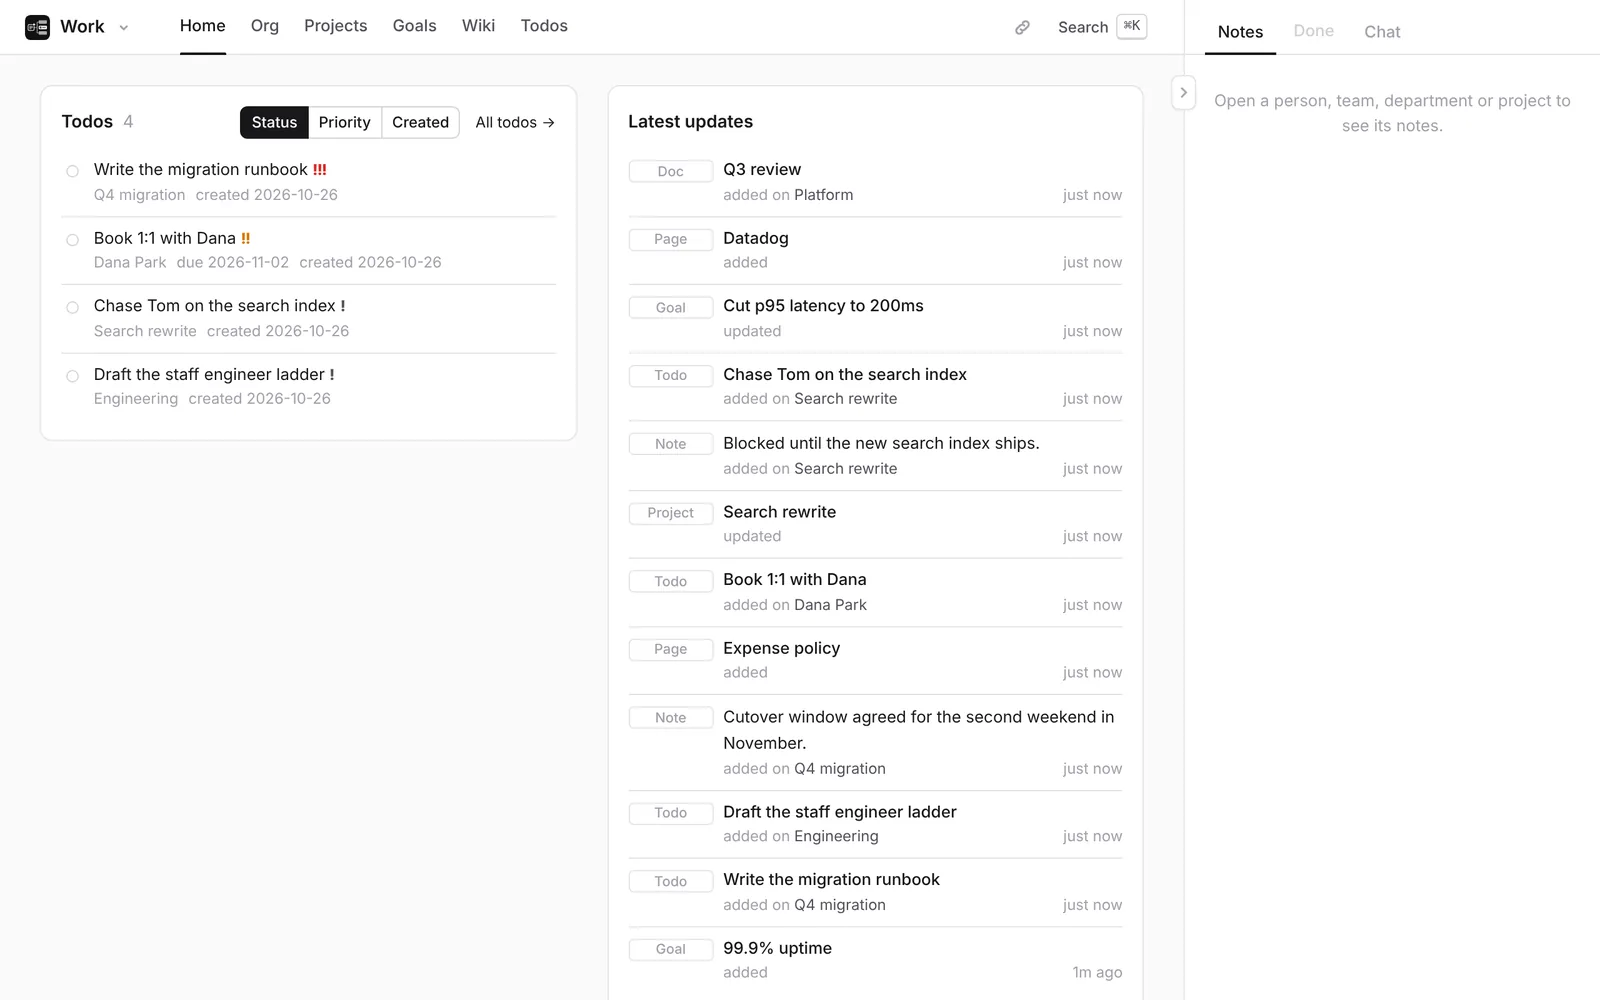
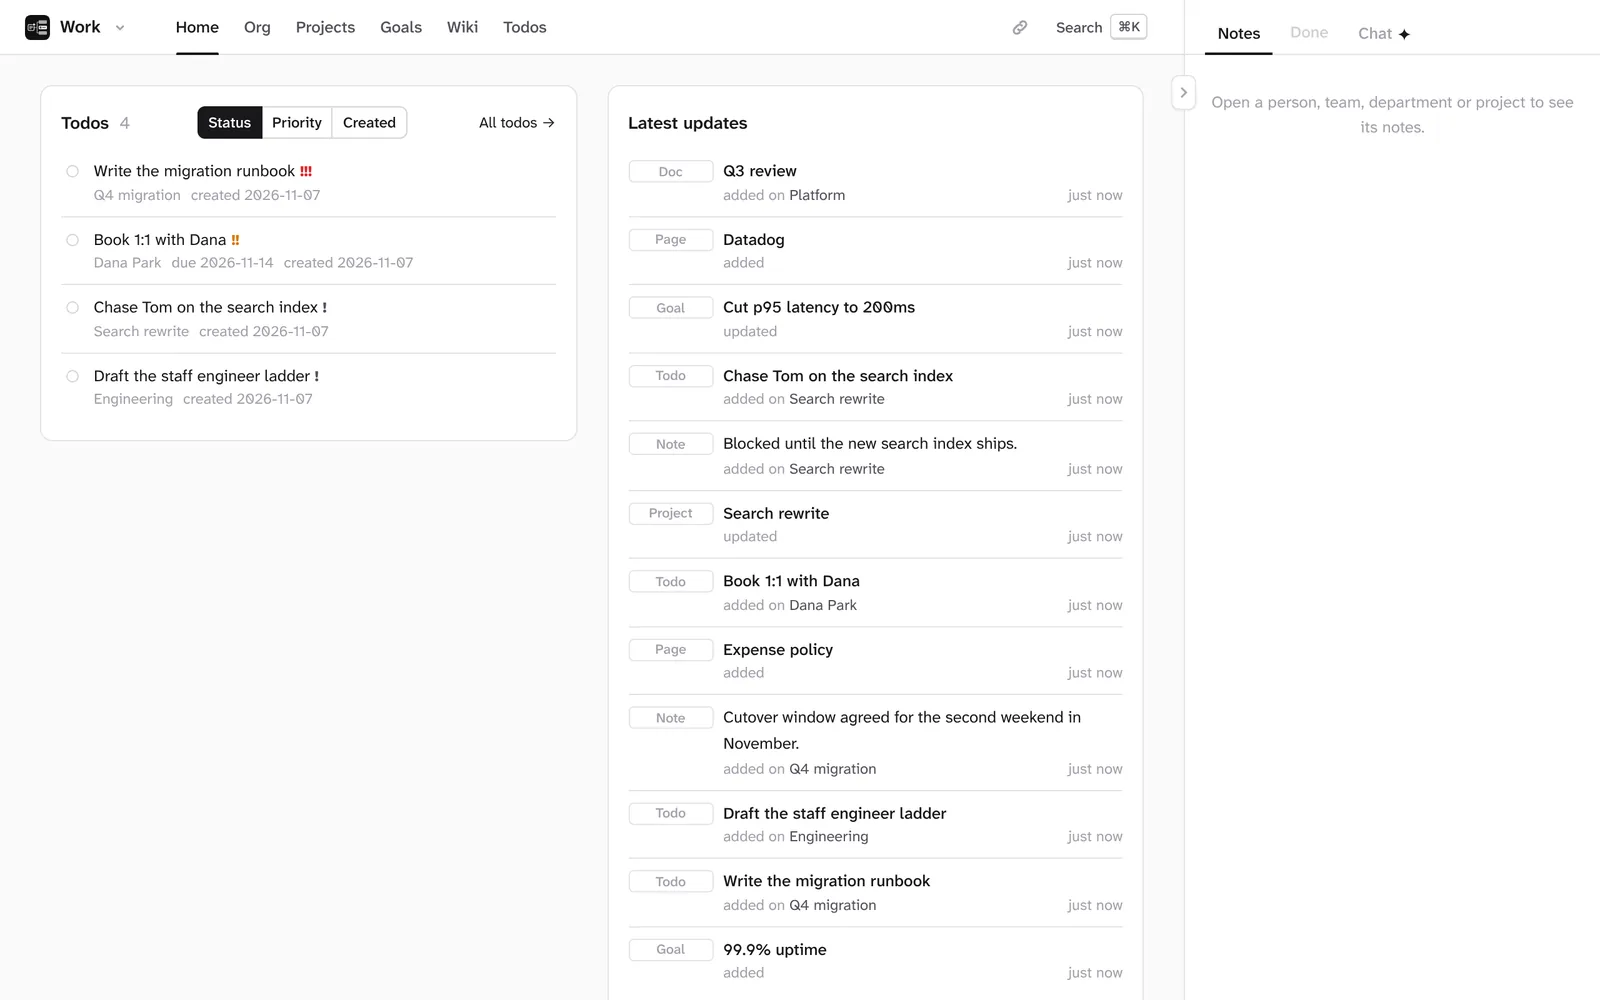
Screenshots from the current app
Same sizes as before (1280×800 and 390 wide, at 2x). images.py skips the
demo posters when only the stills are rebuilt.

Claude-Session: https://claude.ai/code/session_01XkKpG5AmtgfmojUHwDdDXk

diff --git a/public/index.html b/public/index.html
@@ -153,11 +153,11 @@
             <h3>An org change</h3>
             <blockquote><span class="you">You:</span> Dana Park joined as a senior engineer, on Platform, reporting to Priya.</blockquote>
             <p>Claude adds Dana, sets her lead and team. For a reorg, edit the org chart by hand.</p>
-            <a class="zoom" href="/images/org-map-1600.png?v=b6597b11"><span class="sr-only">Open full size: </span>
+            <a class="zoom" href="/images/org-map-1600.png?v=200a6ba1"><span class="sr-only">Open full size: </span>
             <picture>
-              <source media="(max-width: 640px)" type="image/webp" srcset="/images/org-map-m.webp?v=cadedff6" width="780" height="1240">
-              <source type="image/webp" srcset="/images/org-map-800.webp?v=ae5cc7b5 800w, /images/org-map-1600.webp?v=be919729 1600w" sizes="(min-width: 960px) 560px, 92vw">
-              <img src="/images/org-map-1600.png?v=b6597b11" width="1600" height="1000" loading="lazy" decoding="async"
+              <source media="(max-width: 640px)" type="image/webp" srcset="/images/org-map-m.webp?v=2fa7bd27" width="780" height="1240">
+              <source type="image/webp" srcset="/images/org-map-800.webp?v=c96bacde 800w, /images/org-map-1600.webp?v=84c683ec 1600w" sizes="(min-width: 960px) 560px, 92vw">
+              <img src="/images/org-map-1600.png?v=200a6ba1" width="1600" height="1000" loading="lazy" decoding="async"
                    alt="The org chart: Alice Johnson’s reports, with Dana Park and Tom Reid under Priya Shah.">
             </picture></a>
           </article>
@@ -166,11 +166,11 @@
             <h3>After a 1:1</h3>
             <blockquote><span class="you">You:</span> Note that Dana wants to lead the migration. She’d change the on-call rotation first. Remind me to book a 1:1.</blockquote>
             <p>Both land in the panel beside Dana’s page: the note dated, in your words, and the todo above it. Months later, “what do I know about Dana?” returns her notes, todos and docs.</p>
-            <a class="zoom" href="/images/person-1600.png?v=7782d516"><span class="sr-only">Open full size: </span>
+            <a class="zoom" href="/images/person-1600.png?v=098d4161"><span class="sr-only">Open full size: </span>
             <picture>
-              <source media="(max-width: 640px)" type="image/webp" srcset="/images/person-m.webp?v=b43a548c" width="780" height="1120">
-              <source type="image/webp" srcset="/images/person-800.webp?v=7baeb9b1 800w, /images/person-1600.webp?v=d0f4b82a 1600w" sizes="(min-width: 960px) 560px, 92vw">
-              <img src="/images/person-1600.png?v=7782d516" width="1600" height="1000" loading="lazy" decoding="async"
+              <source media="(max-width: 640px)" type="image/webp" srcset="/images/person-m.webp?v=ac096450" width="780" height="1120">
+              <source type="image/webp" srcset="/images/person-800.webp?v=5b8c7d21 800w, /images/person-1600.webp?v=879e67dd 1600w" sizes="(min-width: 960px) 560px, 92vw">
+              <img src="/images/person-1600.png?v=098d4161" width="1600" height="1000" loading="lazy" decoding="async"
                    alt="Dana’s page: her title, lead and groups, with the todo “Book 1:1 with Dana” and a dated note in the right panel.">
             </picture></a>
           </article>
@@ -179,11 +179,11 @@
             <h3>Goals with real numbers</h3>
             <blockquote><span class="you">You:</span> Platform’s H2 goal is p95 latency under 200ms, from 480. We’re at 310 now.</blockquote>
             <p>Each check-in adds to the history instead of overwriting it, and a goal that trails its pace is flagged “Behind pace”.</p>
-            <a class="zoom" href="/images/goal-1600.png?v=2390ae5a"><span class="sr-only">Open full size: </span>
+            <a class="zoom" href="/images/goal-1600.png?v=c663dd84"><span class="sr-only">Open full size: </span>
             <picture>
-              <source media="(max-width: 640px)" type="image/webp" srcset="/images/goal-m.webp?v=794b6fcd" width="780" height="1560">
-              <source type="image/webp" srcset="/images/goal-800.webp?v=4d1786bc 800w, /images/goal-1600.webp?v=e84f5842 1600w" sizes="(min-width: 960px) 560px, 92vw">
-              <img src="/images/goal-1600.png?v=2390ae5a" width="1600" height="1000" loading="lazy" decoding="async"
+              <source media="(max-width: 640px)" type="image/webp" srcset="/images/goal-m.webp?v=6d74446e" width="780" height="1560">
+              <source type="image/webp" srcset="/images/goal-800.webp?v=29a02700 800w, /images/goal-1600.webp?v=98ad78ec 1600w" sizes="(min-width: 960px) 560px, 92vw">
+              <img src="/images/goal-1600.png?v=c663dd84" width="1600" height="1000" loading="lazy" decoding="async"
                    alt="The goal page: a progress bar, a line chart of check-ins against the target, and the check-in history.">
             </picture></a>
           </article>
@@ -192,11 +192,11 @@
             <h3>Writing up the quarter</h3>
             <blockquote><span class="you">You:</span> Write up Platform’s quarter as a doc: delivery and reliability, with charts.</blockquote>
             <p>Claude builds it from what’s already in the notebook, charts included. Export it to PDF, branded with Pro.</p>
-            <a class="zoom" href="/images/doc-charts-1600.png?v=b129a771"><span class="sr-only">Open full size: </span>
+            <a class="zoom" href="/images/doc-charts-1600.png?v=e1c00994"><span class="sr-only">Open full size: </span>
             <picture>
-              <source media="(max-width: 640px)" type="image/webp" srcset="/images/doc-charts-m.webp?v=a658fd2c" width="780" height="1400">
-              <source type="image/webp" srcset="/images/doc-charts-800.webp?v=a1541d6e 800w, /images/doc-charts-1600.webp?v=511b8af0 1600w" sizes="(min-width: 960px) 560px, 92vw">
-              <img src="/images/doc-charts-1600.png?v=b129a771" width="1600" height="1000" loading="lazy" decoding="async"
+              <source media="(max-width: 640px)" type="image/webp" srcset="/images/doc-charts-m.webp?v=c206d1df" width="780" height="1400">
+              <source type="image/webp" srcset="/images/doc-charts-800.webp?v=345afb51 800w, /images/doc-charts-1600.webp?v=f626fd5f 1600w" sizes="(min-width: 960px) 560px, 92vw">
+              <img src="/images/doc-charts-1600.png?v=e1c00994" width="1600" height="1000" loading="lazy" decoding="async"
                    alt="A doc on the Platform team: prose and a bar chart of committed against delivered story points.">
             </picture></a>
           </article>
@@ -210,11 +210,11 @@
         <h2 id="app-title">The app comes set up</h2>
         <p class="section-lede">In Notion or Obsidian you start on a blank page and build the templates, databases and plugins yourself. Remry has people, teams, projects, goals and docs built in, already linked.</p>
         <figure class="app-shot">
-          <a class="zoom" href="/images/home-1600.png?v=e1ef86d4"><span class="sr-only">Open full size: </span>
+          <a class="zoom" href="/images/home-1600.png?v=c53dcb95"><span class="sr-only">Open full size: </span>
           <picture>
-            <source media="(max-width: 640px)" type="image/webp" srcset="/images/home-m.webp?v=0c5010d6" width="780" height="1400">
-            <source type="image/webp" srcset="/images/home-800.webp?v=55533af1 800w, /images/home-1600.webp?v=690189c8 1600w" sizes="(min-width: 1160px) 1112px, 92vw">
-            <img src="/images/home-1600.png?v=e1ef86d4" width="1600" height="1000" loading="lazy" decoding="async"
+            <source media="(max-width: 640px)" type="image/webp" srcset="/images/home-m.webp?v=0fd1253f" width="780" height="1400">
+            <source type="image/webp" srcset="/images/home-800.webp?v=ba4740de 800w, /images/home-1600.webp?v=e03e3efa 1600w" sizes="(min-width: 1160px) 1112px, 92vw">
+            <img src="/images/home-1600.png?v=c53dcb95" width="1600" height="1000" loading="lazy" decoding="async"
                  alt="The home dashboard: open todos and a feed of the latest updates.">
           </picture></a>
         </figure>

diff --git a/tools/demo/images.py b/tools/demo/images.py
@@ -2,9 +2,12 @@
 import sys
 from PIL import Image
 out, dest = sys.argv[1], sys.argv[2]
-Image.open(f"{out}/poster.png").convert("RGB").save(f"{dest}/demo-poster.webp", "WEBP", quality=85)
-Image.open(f"{out}/poster.png").convert("RGB").resize((960, 640), Image.LANCZOS).save(f"{dest}/demo-poster.png", optimize=True)
-Image.open(f"{out}/poster-m.png").convert("RGB").save(f"{dest}/demo-poster-m.webp", "WEBP", quality=85)
+import os
+# The demo's posters, when the demo was rebuilt too (build.sh); a stills-only run skips them.
+if os.path.exists(f"{out}/poster.png"):
+    Image.open(f"{out}/poster.png").convert("RGB").save(f"{dest}/demo-poster.webp", "WEBP", quality=85)
+    Image.open(f"{out}/poster.png").convert("RGB").resize((960, 640), Image.LANCZOS).save(f"{dest}/demo-poster.png", optimize=True)
+    Image.open(f"{out}/poster-m.png").convert("RGB").save(f"{dest}/demo-poster-m.webp", "WEBP", quality=85)
 for n in ["org-map", "person", "goal", "doc-charts", "home", "wiki-page"]:
     im = Image.open(f"{out}/{n}.png").convert("RGB")
     for w in (800, 1600):
